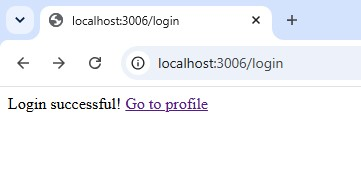
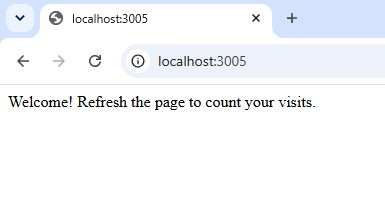
Add files via upload

diff --git a/Server.js b/Server.js
@@ -1,39 +1,18 @@
 const express = require('express');
 const session = require('express-session'); const app = express();
-app.use(express.urlencoded({ extended: true })); app.use(session({
-secret: 'anothersecret', resave: false, saveUninitialized: true
+
+app.use(session({ secret: 'mysecret', resave: false, saveUninitialized: true,
+cookie: { secure: false }
 }));
-const USER = { username: 'user', password: '1234' }; app.get('/', (req, res) => {
-res.send('<a href="/login">Go to Login</a>');
- 
-});
-app.get('/login', (req, res) => { res.send(`
-<form action="/login" method="POST">
-<input name="username" placeholder="Username" required /><br/>
-<input name="password" type="password" placeholder="Password" required /><br/>
-<button type="submit">Login</button>
-</form>
-`);
-});
-app.post('/login', (req, res) => {
-const { username, password } = req.body;
-if (username === USER.username && password === USER.password) { req.session.user = username;
-res.send('Login successful! <a href="/profile">Go to profile</a>');
-} else {
-res.send('Invalid credentials. <a href="/login">Try again</a>');
+
+
+app.get('/', (req, res) => { if (req.session.views) { req.session.views++;
+res.send(`Number of visits: ${req.session.views}`);
+} else { req.session.views = 1;
+res.send('Welcome! Refresh the page to count your visits.');
 }
 });
-app.get('/profile', (req, res) => { if (req.session.user) {
-res.send(`Hello, ${req.session.user}! <a href="/logout">Logout</a>`);
-} else {
-res.send('You must <a href="/login">login</a> first.');
-}
-});
-app.get('/logout', (req, res) => { req.session.destroy(() => {
-res.send('Logged out. <a href="/login">Login again</a>');
-});
  
-});
-app.listen(3006, () => {
-console.log('Server running at http://localhost:3006');
+app.listen(3005, () => {
+console.log('Server running at http://localhost:3005');
 });
